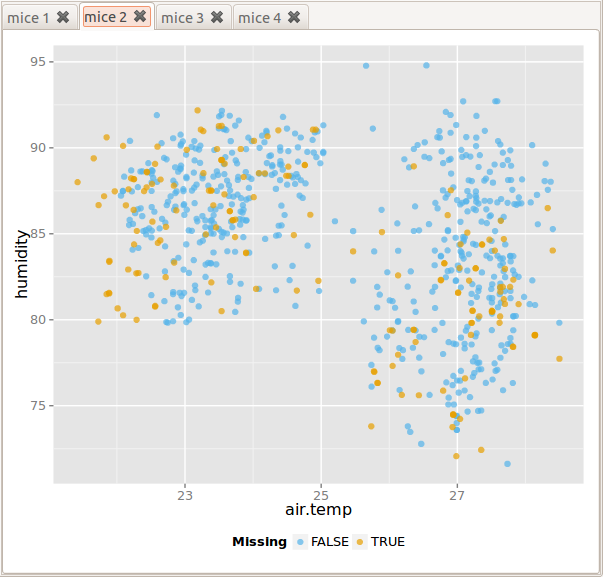
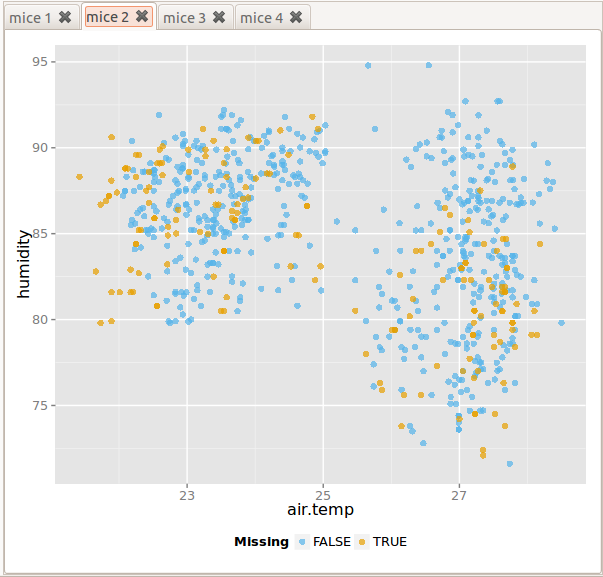
changes after package update

diff --git a/Replication_instructions.md b/Replication_instructions.md
@@ -282,7 +282,7 @@ Figure 18
 MissingDataGUI(tao)
 ```
 
-- select the 1th, 7th, and 8th rows (year, uwind, vwind) in region 1.
+- select the 4th, 7th, and 8th rows (sea.surface.temp, uwind, vwind) in region 1.
 - uncheck all the checkboxes in region 2.
 - (left) click "air.temp" in region 3.
 - (right) click "humidity" in region 3.
